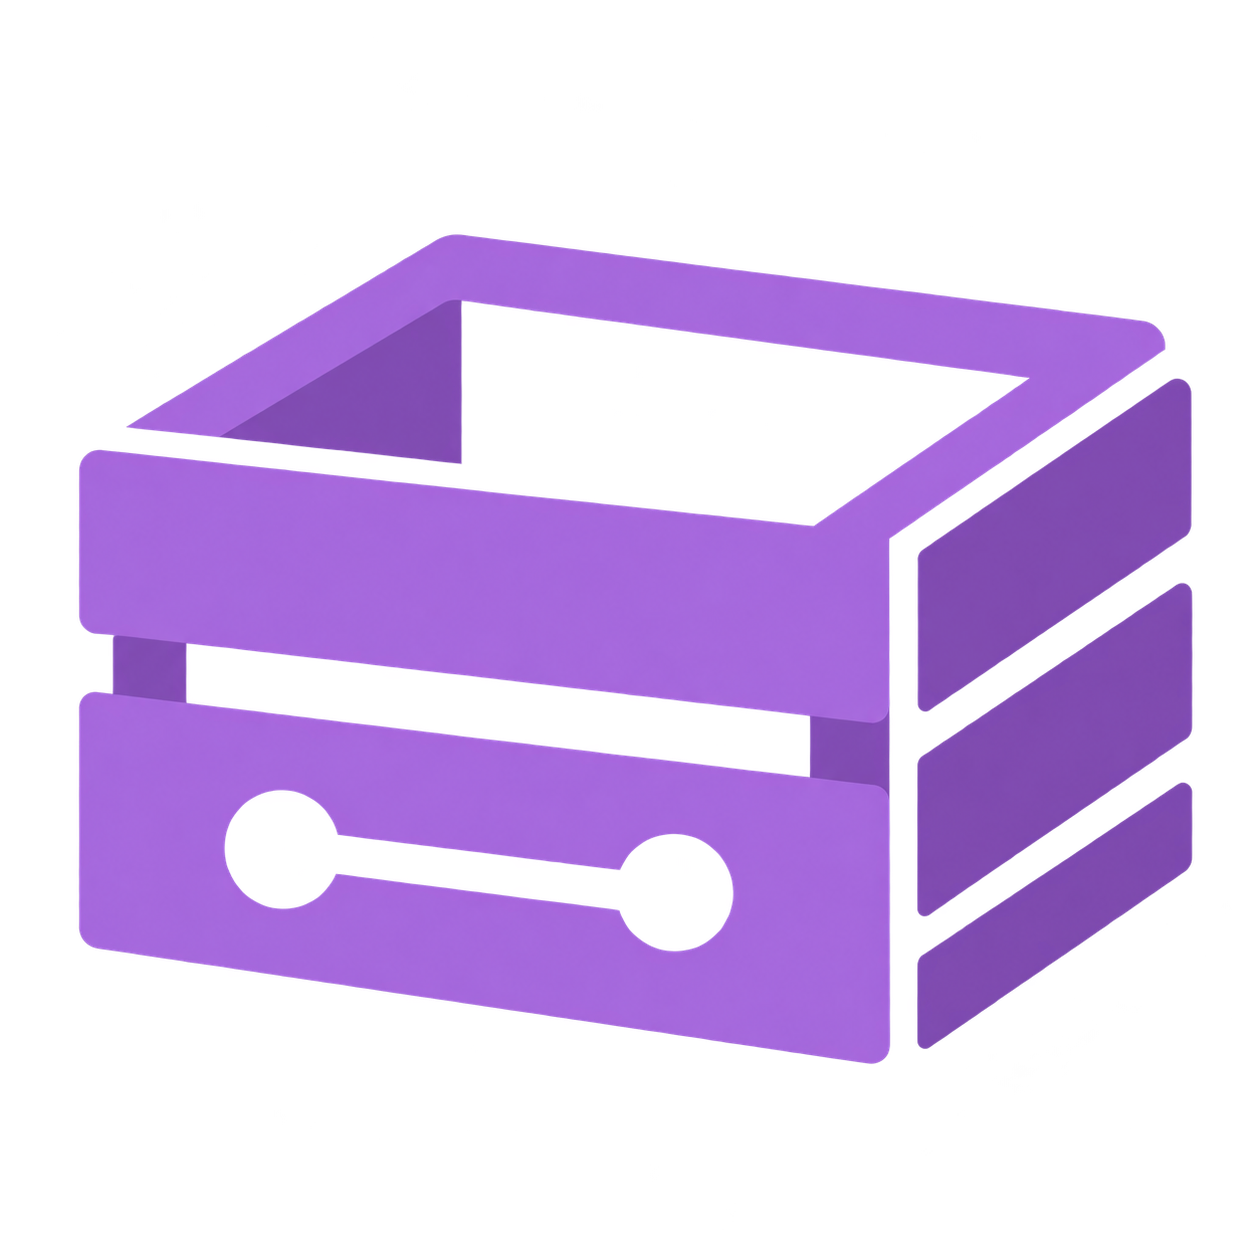
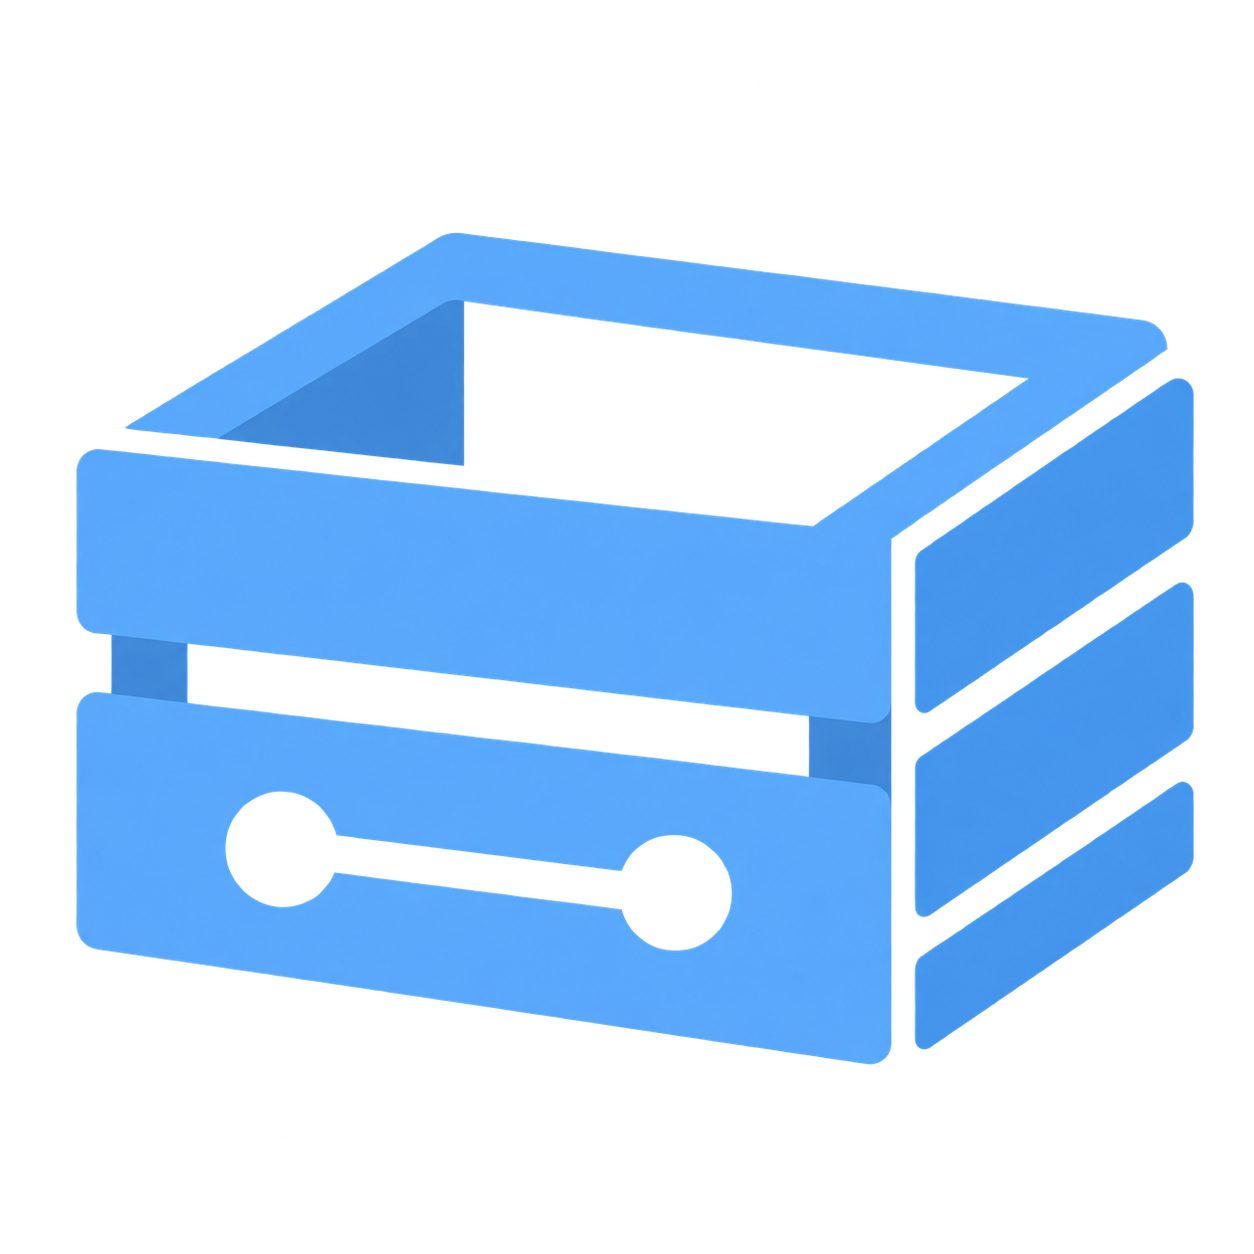
Refine setup layout and blue branding

diff --git a/src/desktop/setup/SetupView.cs b/src/desktop/setup/SetupView.cs
@@ -10,6 +10,7 @@ using System.Windows.Controls;
 using System.Windows.Input;
 using System.Windows.Markup;
 using System.Windows.Media;
+using System.Windows.Media.Imaging;
 using Microsoft.Win32;
 using Forms = System.Windows.Forms;
 
@@ -23,6 +24,7 @@ namespace NetCrate.Setup
         private bool checkingSoftware;
         private CancellationTokenSource checkCancellation;
         private bool closeAfterCheck;
+        private readonly BitmapSource logo;
         private CancellationToken CheckToken { get { return checkCancellation == null ? CancellationToken.None : checkCancellation.Token; } }
 
         public SetupView(SetupController controller)
@@ -36,6 +38,18 @@ namespace NetCrate.Setup
             Background = Theme.Brush(Theme.Background);
             Foreground = Theme.Brush(Theme.Text);
             FontFamily = new FontFamily("Segoe UI Variable Text, Segoe UI");
+            string logoPath = Path.Combine(AppDomain.CurrentDomain.BaseDirectory, "NetCrate.png");
+            if (File.Exists(logoPath))
+            {
+                BitmapImage image = new BitmapImage();
+                image.BeginInit();
+                image.CacheOption = BitmapCacheOption.OnLoad;
+                image.UriSource = new Uri(logoPath);
+                image.EndInit();
+                image.Freeze();
+                logo = image;
+                Icon = logo;
+            }
             WindowStartupLocation = WindowStartupLocation.CenterScreen;
             Content = shell;
             shell.Background = Theme.Brush(Theme.Background);
@@ -139,10 +153,6 @@ namespace NetCrate.Setup
             main.Children.Add(scroll);
             StackPanel content = new StackPanel { Margin = new Thickness(0, 0, 12, 20) };
             scroll.Content = content;
-            TextBlock label = Text("SET UP NETCRATE", 11, Theme.Accent);
-            label.FontWeight = FontWeights.SemiBold;
-            label.Margin = new Thickness(0, 0, 0, 13);
-            content.Children.Add(label);
             switch (controller.State.Step)
             {
                 case SetupStep.Computer: ComputerScreen(content); break;
@@ -178,11 +188,15 @@ namespace NetCrate.Setup
             StackPanel brand = new StackPanel { Margin = new Thickness(0, 0, 0, 38) };
             TextBlock title = Text("NetCrate", 24, Theme.Text);
             title.FontWeight = FontWeights.SemiBold;
-            brand.Children.Add(title);
-            brand.Children.Add(Text("Your footage.\nYour computers.", 12, Theme.Muted));
+            StackPanel wordmark = new StackPanel { Orientation = Orientation.Horizontal };
+            if (logo != null)
+                wordmark.Children.Add(new Image { Source = logo, Width = 32, Height = 32, Stretch = Stretch.Uniform,
+                    Margin = new Thickness(0, 0, 10, 0), IsHitTestVisible = false });
+            wordmark.Children.Add(title);
+            brand.Children.Add(wordmark);
             DockPanel.SetDock(brand, Dock.Top);
             dock.Children.Add(brand);
-            TextBlock note = Text("Development build\nPairing and round-trip checks are still in development.", 11, Theme.Muted);
+            TextBlock note = Text("Development build", 11, Theme.Muted);
             DockPanel.SetDock(note, Dock.Bottom);
             dock.Children.Add(note);
             StackPanel steps = new StackPanel();
@@ -203,6 +217,11 @@ namespace NetCrate.Setup
             TextBlock heading = Text(title, 28, Theme.Text);
             heading.FontWeight = FontWeights.SemiBold;
             panel.Children.Add(heading);
+            if (String.IsNullOrWhiteSpace(description))
+            {
+                heading.Margin = new Thickness(0, 0, 0, 25);
+                return;
+            }
             TextBlock body = Text(description, 14, Theme.Muted);
             body.Margin = new Thickness(0, 10, 0, 25);
             panel.Children.Add(body);
@@ -210,9 +229,9 @@ namespace NetCrate.Setup
 
         private void ComputerScreen(StackPanel panel)
         {
-            Heading(panel, "Which computer is this?", "Install NetCrate on both computers. Choose the job for the one you are using now.");
-            panel.Children.Add(RoleCard(ComputerRole.EditingComputer, "Editing Computer", "The computer where you keep your projects and edit. Proxies come back here.", "\uE770"));
-            panel.Children.Add(RoleCard(ComputerRole.BackupServer, "Backup Server", "The other computer. It stores your backups and creates proxies while you keep working.", "\uE977"));
+            Heading(panel, "Which computer is this?", null);
+            panel.Children.Add(RoleCard(ComputerRole.EditingComputer, "Editing Computer", "Stores your projects and receives proxies.", "\uE770"));
+            panel.Children.Add(RoleCard(ComputerRole.BackupServer, "Backup Server", "Stores backups and creates proxies.", "\uE977"));
             FlowDiagram(panel);
         }
 
@@ -289,7 +308,7 @@ namespace NetCrate.Setup
             bool editing = controller.State.Role == ComputerRole.EditingComputer;
             Heading(panel, editing ? "Where are your projects?" : "Where should backups go?", editing
                 ? "Choose the folder that contains your project folders. You will choose a project to back up after setup."
-                : "Choose a folder on the drive you want to use for backups. Give your footage room to grow.");
+                : "Choose a folder for backups.");
             Border choice = new Border { Background = Theme.Brush(Theme.Surface), BorderBrush = Theme.Brush(Theme.Border), BorderThickness = new Thickness(1), CornerRadius = new CornerRadius(8), Padding = new Thickness(22) };
             StackPanel contents = new StackPanel();
             choice.Child = contents;
@@ -301,9 +320,12 @@ namespace NetCrate.Setup
             pick.HorizontalAlignment = HorizontalAlignment.Left;
             contents.Children.Add(pick);
             panel.Children.Add(choice);
-            TextBlock hint = Text(editing ? "Returned proxies go into each project's Proxies folder automatically." : "Selecting a folder does not format the drive or start a backup.", 13, Theme.Muted);
-            hint.Margin = new Thickness(0, 18, 0, 0);
-            panel.Children.Add(hint);
+            if (editing)
+            {
+                TextBlock hint = Text("Returned proxies go into each project's Proxies folder.", 13, Theme.Muted);
+                hint.Margin = new Thickness(0, 18, 0, 0);
+                panel.Children.Add(hint);
+            }
         }
 
         private async void PickFolder()

diff --git a/src/desktop/setup/SetupController.cs b/src/desktop/setup/SetupController.cs
@@ -28,7 +28,7 @@ namespace NetCrate.Setup
             State.Step = State.Role == ComputerRole.None ? SetupStep.Computer
                 : String.IsNullOrEmpty(State.Folder) ? SetupStep.Folders : SetupStep.Prepare;
             lastSaved = State.Copy();
-            LastResult = SetupResult.Done("You can close NetCrate and continue setup later.");
+            LastResult = SetupResult.Done("");
         }
 
         public bool CanContinue
